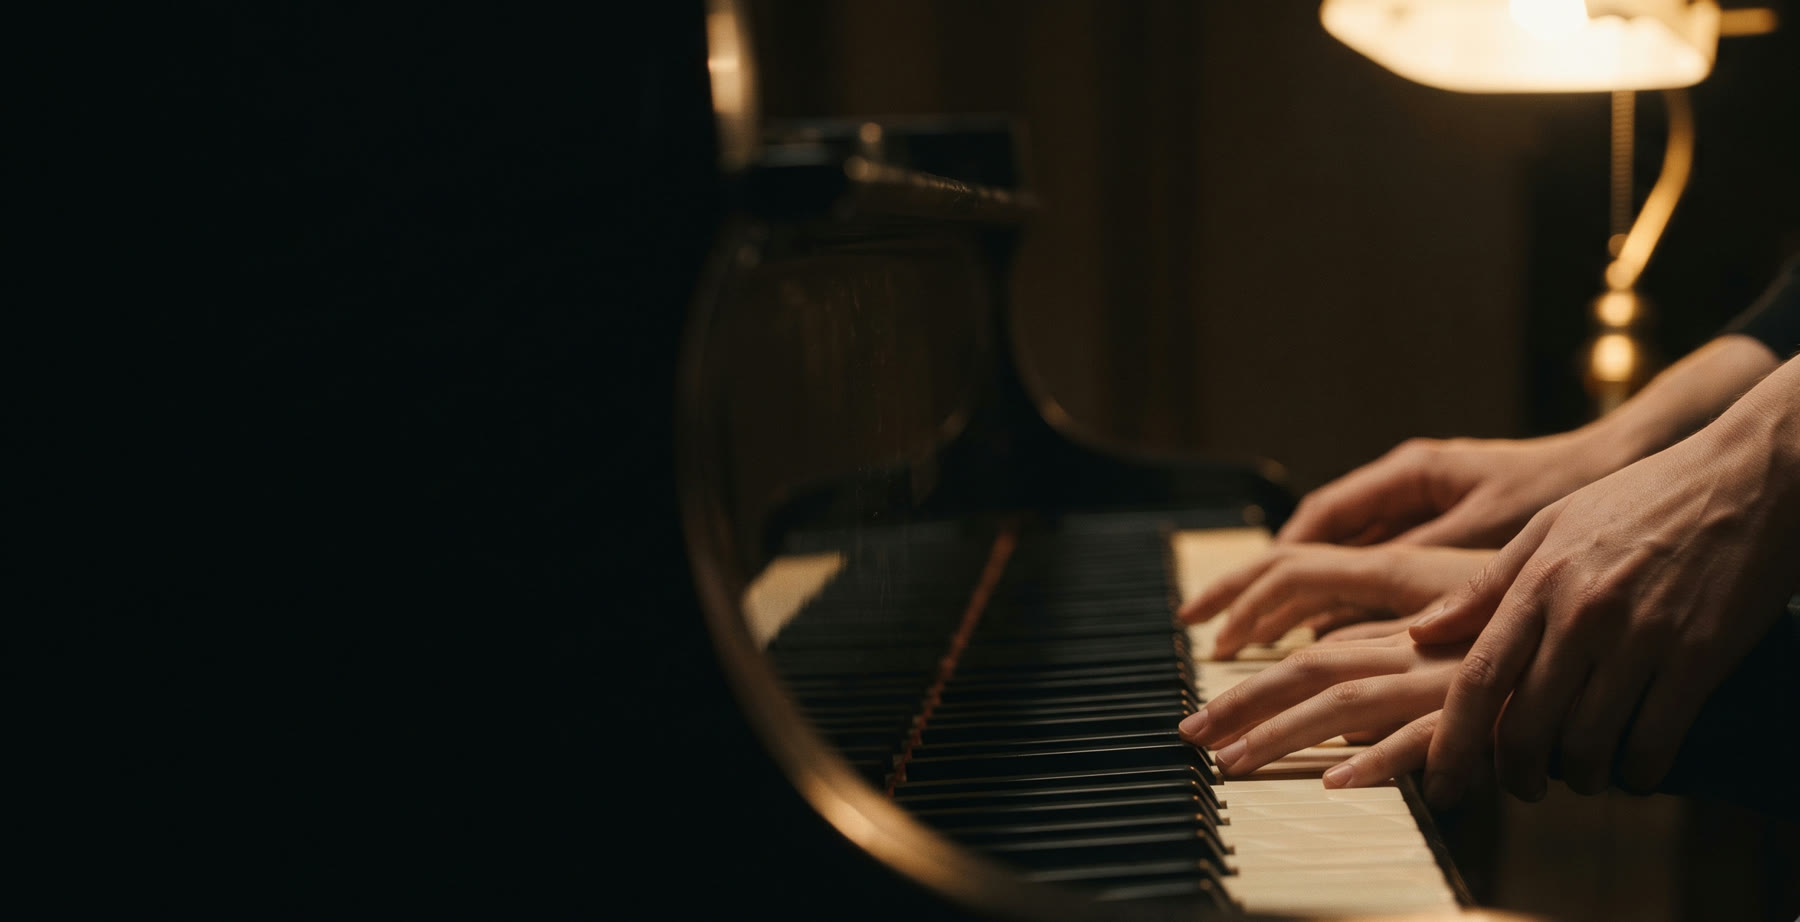
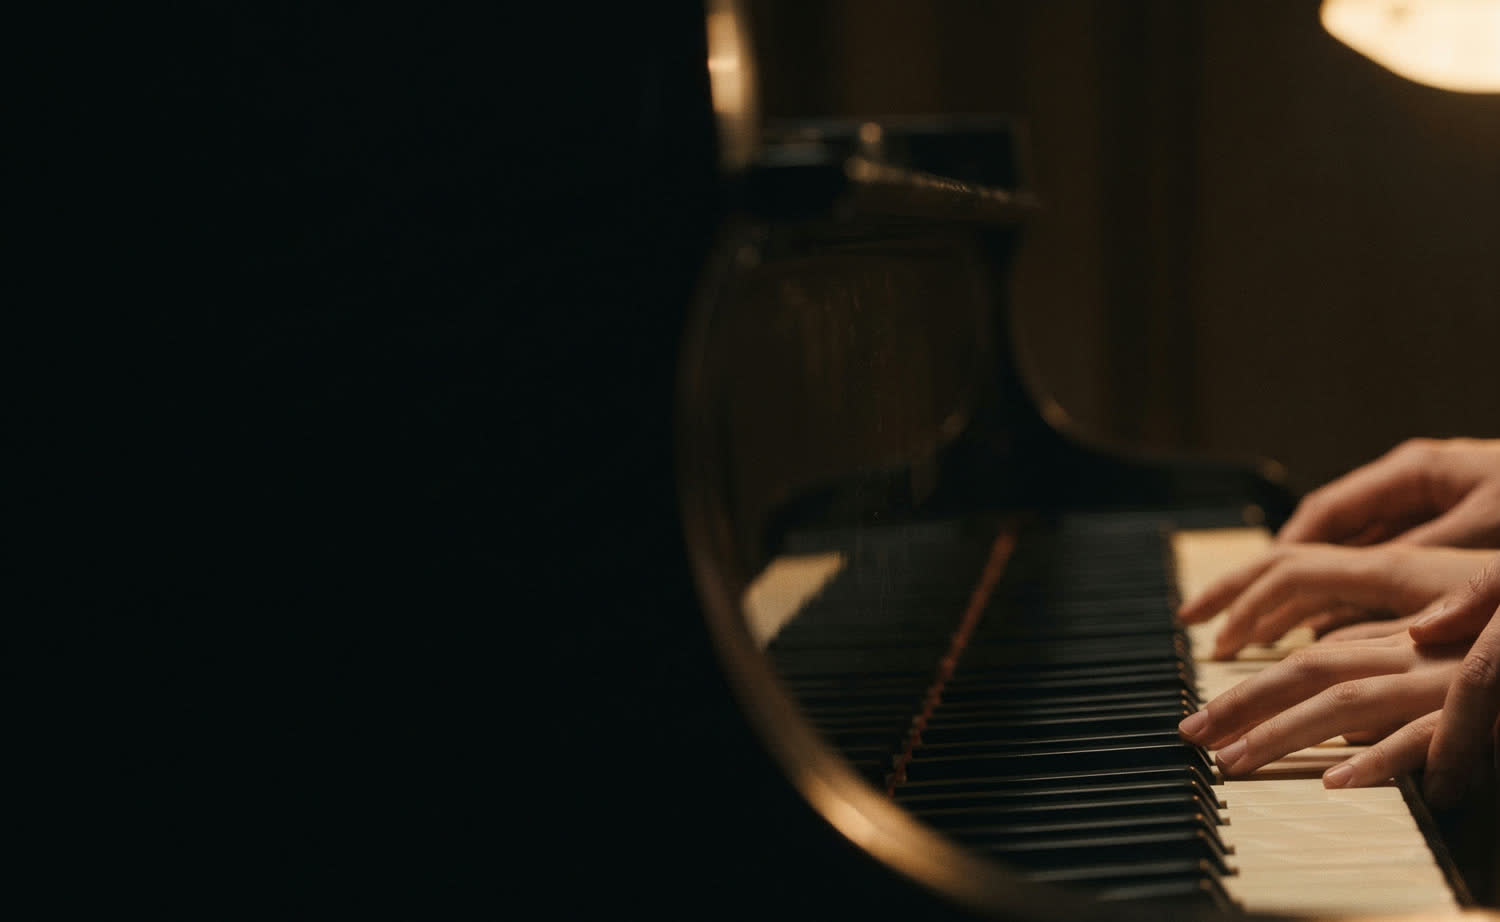
ヒーローの音符グリフ削除／Lesson画像の余分な手をトリミング
- ヒーロー：金の五線譜は残し音符(♪♫♩♬)を削除（雰囲気優先）
- Lesson Portal：右端に写り込んだ3本目の手/腕を切り、自然な両手だけに

diff --git a/index.html b/index.html
@@ -936,15 +936,6 @@ footer {
         <use href="#staffA" y="0"/><use href="#staffA" y="13"/><use href="#staffA" y="26"/><use href="#staffA" y="39"/><use href="#staffA" y="52"/>
         <use href="#staffB" y="0"/><use href="#staffB" y="13"/><use href="#staffB" y="26"/><use href="#staffB" y="39"/><use href="#staffB" y="52"/>
       </g>
-      <g fill="#D4B36A" fill-opacity="0.62" font-family="Georgia, 'Times New Roman', serif">
-        <text x="70"   y="306" font-size="46">&#9834;</text>
-        <text x="195"  y="336" font-size="58">&#9835;</text>
-        <text x="135"  y="548" font-size="50">&#9834;</text>
-        <text x="265"  y="514" font-size="40">&#9833;</text>
-        <text x="1180" y="318" font-size="54">&#9835;</text>
-        <text x="1330" y="300" font-size="46">&#9834;</text>
-        <text x="1240" y="558" font-size="60">&#9836;</text>
-      </g>
     </svg>
   </div>
   <div class="hero-label">個人レッスン講師向けサービス</div>